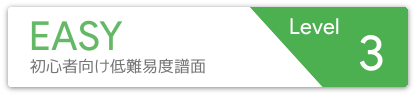
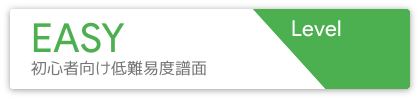
レベル表記を追加

diff --git a/src/com/negset/macaron/MusicCard.java b/src/com/negset/macaron/MusicCard.java
@@ -3,6 +3,7 @@ package com.negset.macaron;
 import org.newdawn.slick.Graphics;
 import org.newdawn.slick.Image;
 import org.newdawn.slick.SlickException;
+import org.newdawn.slick.SpriteSheet;
 
 public class MusicCard
 {
@@ -10,6 +11,8 @@ public class MusicCard
 	private static Image bg;
 	/** 難易度カード */
 	private static Image[] difCard;
+	/** レベル表記の数字 */
+	private static Image[] levelNum;
 	/** 曲サムネイル画像 */
 	private Image thumb;
 	/** 曲名画像 */
@@ -39,6 +42,14 @@ public class MusicCard
 			difCard[1] = new Image("res\\select\\difficulty1.png");
 			difCard[2] = new Image("res\\select\\difficulty2.png");
 			difCard[3] = new Image("res\\select\\difficulty3.png");
+			levelNum = new Image[10];
+			Image img = new Image("res\\select\\level_num.png");
+			SpriteSheet ss
+			= new SpriteSheet(img, img.getWidth()/10, img.getHeight());
+			for (int i = 0; i < 10; i++)
+			{
+				levelNum[i] = ss.getSubImage(i, 0);
+			}
 		}
 		catch (SlickException e) {}
 		animeCnt = 0;
@@ -183,7 +194,8 @@ public class MusicCard
 					x += 15;
 				}
 				difCard[i].setAlpha(animeCnt / 200f);
-				difCard[i].draw(x, 313 + 93 * i - animeCnt);
+				difCard[i].draw(x, 310 + 93 * i - animeCnt);
+				drawLevel(level[i], x+360, 365 + 93 * i - animeCnt, g);
 			}
 		}
 
@@ -199,5 +211,18 @@ public class MusicCard
 
 		float w4 = artist.getWidth() * scale;
 		artist.draw(x - w4/2, 300 - h1/2 + 330*scale, scale);
+	}
+
+	private void drawLevel(int level, float x, float y, Graphics g)
+	{
+		if (level < 10)
+		{
+			g.drawImage(levelNum[level], x-15, y-18);
+		}
+		else
+		{
+			g.drawImage(levelNum[level/10], x-30, y-18);
+			g.drawImage(levelNum[level%10], x, y-18);
+		}
 	}
 }
